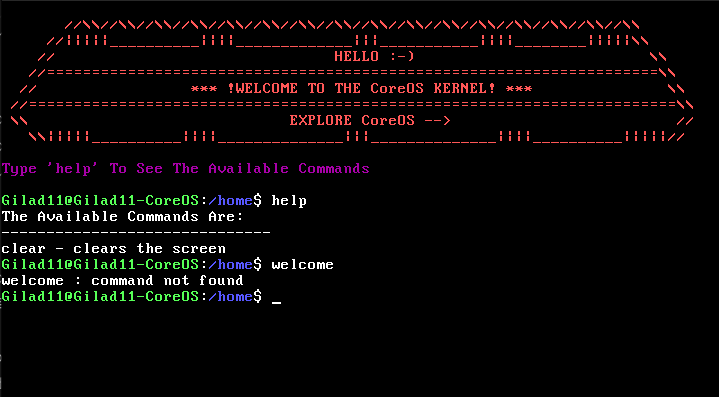
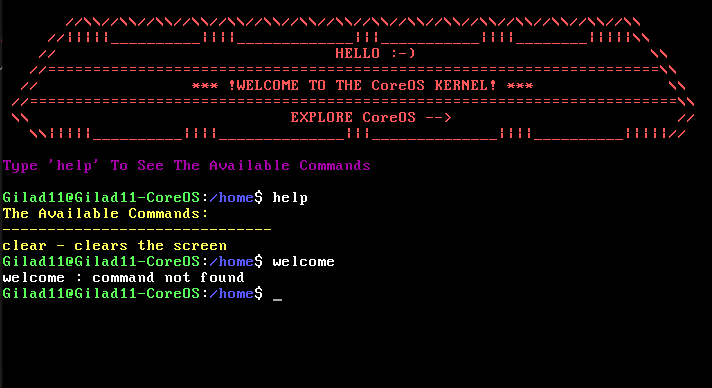
changed cli

diff --git a/src/kernel/cli/cli.c b/src/kernel/cli/cli.c
@@ -3,19 +3,20 @@
 
 int strcmp(const char* str1, const char* str2)
 {
-    while (*str1 && (*str1 == *str2)) {
+    while (*str1 && (*str1 == *str2)) 
+    {
         str1++;
         str2++;
     }
 
-    // Return the difference between the first differing characters (or 0 if equal)
     return (unsigned char)(*str1) - (unsigned char)(*str2);
 }
 
 void handle_help()
 {
     Enter_In_Cli();
-    printf("\nThe Available Commands Are:");
+    Modify_VGA_Attr(0x0E); // yellow
+    printf("\nThe Available Commands:");
     printf("\n------------------------------");
     printf("\nclear - clears the screen");
     Disable_Enter_In_Cli();

diff --git a/src/kernel/include/cli/cli.h b/src/kernel/include/cli/cli.h
@@ -1,10 +1,10 @@
 #ifndef CLI_H
 #define CLI_H
 
-#define INPUT_BUFFER_SIZE 256
-
 #define CLEAR_CMD "clear"
 #define HELP_CMD  "help"
+
+#define INPUT_BUFFER_SIZE 256
 
 void CliHandleInput(char buffer[INPUT_BUFFER_SIZE]);
 
